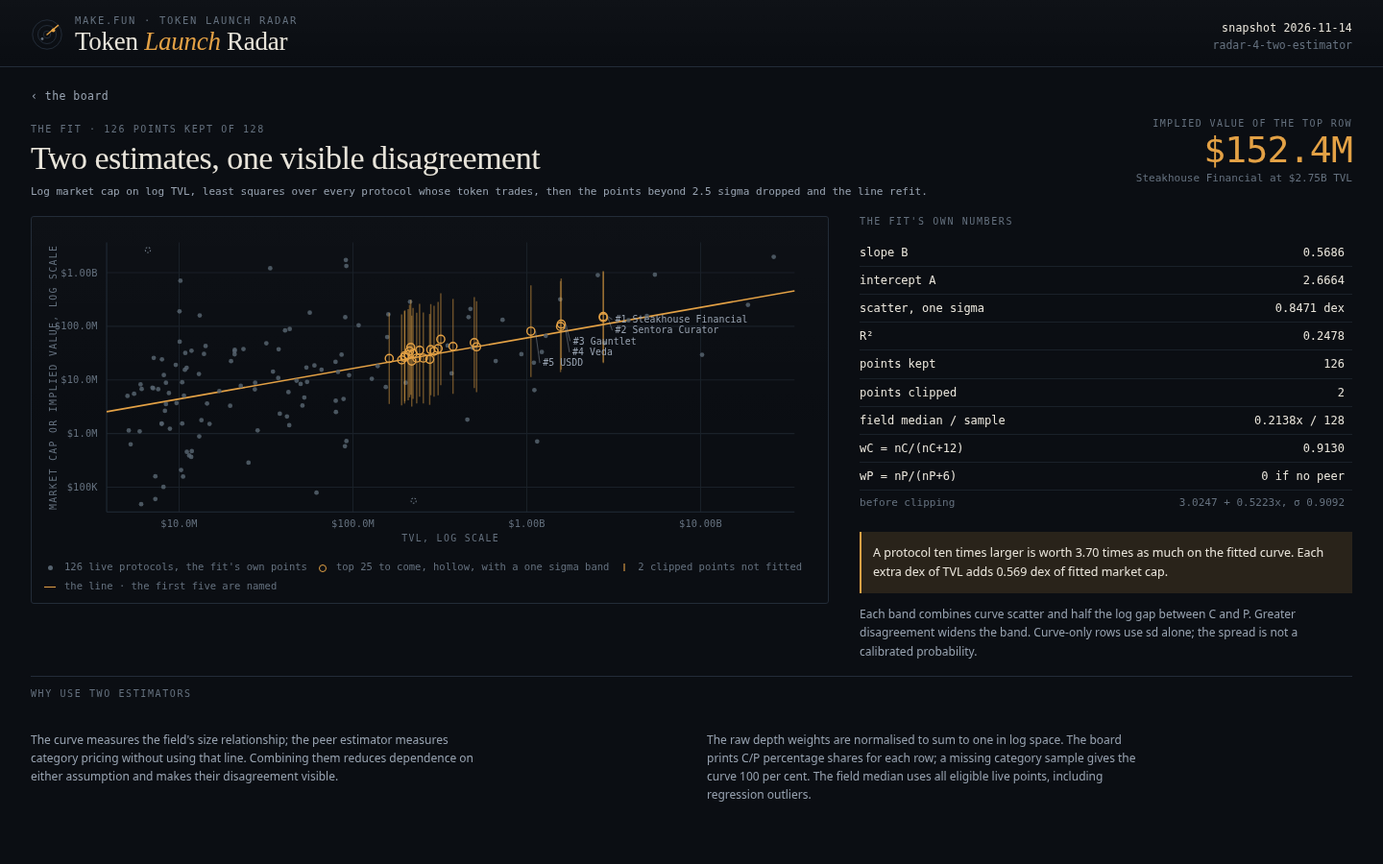
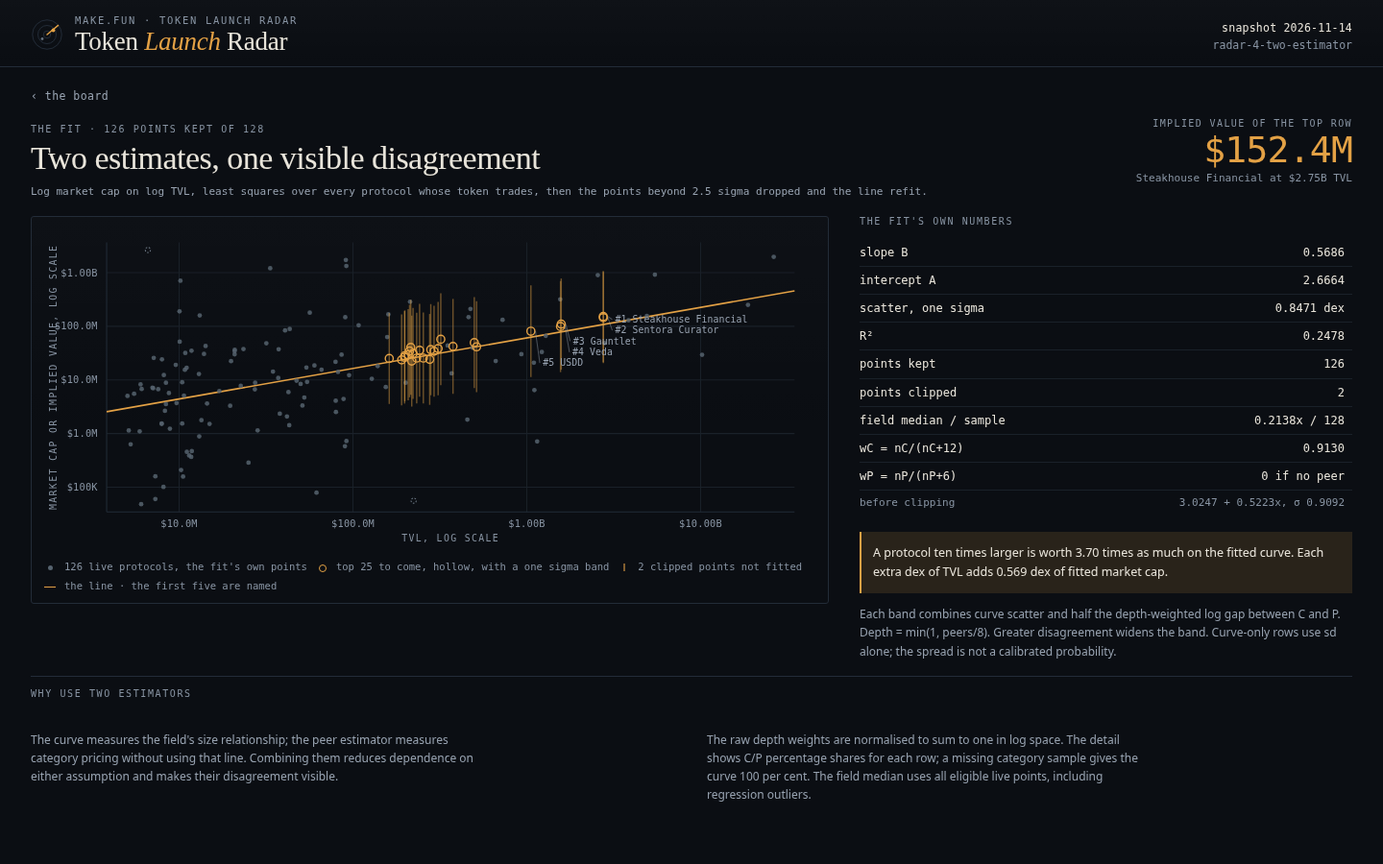
radar-5: the first screen carries the argument, and every band is sortable

Changed region(s): [[0.625, 0.6844, 0.9688, 0.7778], [0.5, 0.84, 0.8125, 0.9022], [0.0938, 0.6533, 0.125, 0.6844]]

diff --git a/dashboard/app.js b/dashboard/app.js
@@ -105,6 +105,7 @@
     growth: function (r) { return r.change_7d === null ? -9999 : r.change_7d; },
     age: function (r) { return r.age_days === null ? -1 : r.age_days; },
     terms: function (r) { return terms(r); },
+    band: function (r) { return Math.log10(r.band_high / Math.max(1, r.band_low)); },
     rank: function (r) { return r.rank; },
   };
 
@@ -156,8 +157,6 @@
 
   function rowHtml(row) {
     var chip = '<span class="chip' + (row.on_watchlist ? ' watch' : '') + '">' + esc(row.category || 'no category') + '</span>';
-    var chainCell = row.chains.length === 0 ? 'n/a'
-      : esc(row.chains[0]) + ' <span class="more">&middot; ' + row.chains.length + '</span>';
     return (
       '<tr data-slug="' + esc(row.slug) + '" tabindex="0">' +
       '<td class="rank">' + row.rank + '</td>' +
@@ -165,11 +164,9 @@
       (row.on_watchlist ? '' : '<span class="off">beyond watchlist</span>') + '</span></td>' +
       '<td class="num dim">' + esc(usd(row.tvl_usd)) + '</td>' +
       trendCell(row.change_7d) +
-      '<td class="num dim">' + esc(age(row.age_days)) + '</td>' +
-      '<td class="chaincell">' + chainCell + '</td>' +
-      '<td class="estimates"><span>curve ' + esc(usd(row.curve_value_usd)) + '</span><span>peer ' + (row.peer_value_usd === null ? 'n/a: curve only' : esc(usd(row.peer_value_usd))) + '</span><span>C/P ' + (100 * row.blend_weight_curve / (row.blend_weight_curve + row.blend_weight_peer)).toFixed(0) + '/' + (100 * row.blend_weight_peer / (row.blend_weight_curve + row.blend_weight_peer)).toFixed(0) + '%</span></td>' +
       valueCell(row) +
-      '<td class="chev">&#8250;</td>' +
+      '<td class="num band-width">' + SORTS.band(row).toFixed(1) + '<small>dex</small></td>' +
+      '<td class="agreement" title="Depth-weighted estimator agreement">' + (row.estimators_agree === null ? 'C' : row.estimators_agree ? '=' : '!') + '</td>' +
       '</tr>'
     );
   }
@@ -205,7 +202,6 @@
 
   function boardView() {
     var rows = visible();
-    var top = DATA.rows[0];
     var options = categories()
       .map(function (c) { return '<option value="' + esc(c) + '"' + (c === state.category ? ' selected' : '') + '>' + esc(c) + '</option>'; })
       .join('');
@@ -215,16 +211,8 @@
 
     var head = masthead(false) +
 
-      '<section class="figures">' +
-      '<div class="figure lead"><span class="label">highest conditional implied value</span>' +
-      '<span class="value"><em>' + esc(usd(top.implied_value_usd)) + '</em> &middot; ' + esc(top.name) + '</span></div>' +
-      '<div class="figure"><span class="label">the size curve</span>' +
-      '<span class="value">' + mult(pow10(FIT.b)) + ' <small>per 10x TVL</small></span></div>' +
-      '<div class="figure"><span class="label">fit scatter, one sigma</span>' +
-      '<span class="value">&plusmn;' + FIT.scatter.toFixed(2) + ' <small>dex, r&sup2; ' + FIT.r2.toFixed(2) + '</small></span></div>' +
-      '<div class="figure"><span class="label">protocols priced</span>' +
-      '<span class="value">' + DATA.board_size + ' <small>of ' + DATA.watchlist_size + ' on the watchlist</small></span></div>' +
-      '</section>' +
+      '<section class="method"><p>We price a possible token from a size curve and category peers, then adjust for chain reach, growth and tracking age.</p>' +
+      '<div class="fit-strip"><b>size curve B ' + FIT.b.toFixed(3) + '</b><span>scatter ' + FIT.scatter.toFixed(2) + ' dex</span><span>r2 ' + FIT.r2.toFixed(2) + '</span><span>' + FIT.n + ' of ' + FIT.first.n + ' live tokens kept</span><span>' + DATA.board_size + ' candidates / ' + DATA.watchlist_size + ' watchlist</span></div></section>' +
 
       '<div class="toolbar">' +
       '<label class="field">' + searchGlyph() +
@@ -233,7 +221,7 @@
       '<select id="chain" aria-label="chain"><option value="all">every chain</option>' + chainOptions + '</select>' +
       '<label class="toggle' + (state.watchOnly ? ' on' : '') + '"><input type="checkbox" id="watch"' + (state.watchOnly ? ' checked' : '') + '> watchlist only</label>' +
       '<select id="sort" aria-label="sort">' +
-      ['implied', 'tvl', 'growth', 'age', 'terms'].map(function (k) {
+      ['implied', 'tvl', 'growth', 'age', 'terms', 'band'].map(function (k) {
         return '<option value="' + k + '"' + (state.sort === k ? ' selected' : '') + '>sort: ' + k + '</option>';
       }).join('') +
       '</select>' +
@@ -241,18 +229,45 @@
       '<a class="fitlink" href="#/fit">the two estimators &#8250;</a>' +
       '</div>' +
 
-      '<div class="board">' + gridHtml(rows) + '</div>' +
+      '<div class="board-layout"><div class="board">' + gridHtml(rows) + '</div><aside class="board-aside">' + bandChart(rows) + claimsView() + '</aside></div>' +
       noteView();
 
     return head;
   }
 
+  function bandChart(rows) {
+    var top = rows.slice(0, 5);
+    var lo = Math.floor(Math.min.apply(null, top.map(function (r) { return Math.log10(Math.max(1, r.band_low)); })));
+    var hi = Math.ceil(Math.max.apply(null, top.map(function (r) { return Math.log10(r.band_high); })));
+    if (!top.length) return '<h2>No rows to compare</h2>';
+    function x(v) { return 30 + (Math.log10(Math.max(1, v)) - lo) / Math.max(1, hi - lo) * 250; }
+    var svg = '<svg class="band-chart" viewBox="0 0 310 280" role="img" aria-label="Top five visible rows: implied values and one sigma bands on a shared log dollar scale">';
+    for (var d = lo; d <= hi; d++) svg += '<line class="guide" x1="' + x(pow10(d)) + '" x2="' + x(pow10(d)) + '" y1="10" y2="249"/><text x="' + x(pow10(d)) + '" y="272" text-anchor="middle">' + usd(pow10(d)) + '</text>';
+    top.forEach(function (r, i) {
+      var y = 23 + i * 47;
+      svg += '<text class="band-name" x="12" y="' + y + '">#' + r.rank + ' ' + esc(r.name) + '</text><text x="294" y="' + y + '" text-anchor="end">' + usd(r.implied_value_usd) + '</text>';
+      svg += '<line class="interval" x1="' + x(r.band_low) + '" x2="' + x(r.band_high) + '" y1="' + (y+15) + '" y2="' + (y+15) + '"/>';
+      [r.band_low, r.band_high].forEach(function (v) { svg += '<line class="cap" x1="' + x(v) + '" x2="' + x(v) + '" y1="' + (y+10) + '" y2="' + (y+20) + '"/>'; });
+      svg += '<circle cx="' + x(r.implied_value_usd) + '" cy="' + (y+15) + '" r="3.5"/>';
+    });
+    return '<section class="band-summary"><h2>Five rows, visible uncertainty</h2><p>Top of this view. Dot: value. Line: one sigma.</p>' + svg + '</svg><p>Shared log dollar scale. Overlap limits rank confidence.</p><p>C/P marks: = agree; ! disagree; C curve only.</p></section>';
+  }
+
+  function claimsView() {
+    return '<section class="claims"><h2>What this board claims</h2><ul>' +
+      '<li>Prices a possible token from market TVL pricing.</li>' +
+      '<li>Snapshot only; no name exceptions or outside data.</li>' +
+      '<li>One sigma: market disagreement, not a wrong row.</li>' +
+      '<li>Watchlist floor: ' + DATA.early_size + '/' + DATA.board_size + ' rows extend early coverage.</li>' +
+      '<li>No launch prediction or investment advice.</li></ul></section>';
+  }
+
   function noteView() {
     return '<section class="note"><div><h2>two estimates, one conditional value</h2>' +
       '<p>C = 10^(a + b log10 TVL). P = TVL times a category median market-cap/TVL multiple. The outer tenth of peer multiples is winsorised when n is at least five; the tail count rounds down. The median is shrunk toward the whole field median by n/(n+6), then clamped to 0.02 to 8.</p>' +
-      '<p>wC = nC/(nC+12); wP = nP/(nP+6). Base = 10^((wC log10 C + wP log10 P)/(wC+wP)). No category comparable means curve only. Implied = round(base times chain times momentum times maturity).</p>' +
+      '<p>wC = nC/(nC+12); wP = nP/(nP+6). Base = 10^((wC log10 C + wP log10 P)/(wC+wP)). No category comparable means curve only. Depth = min(1, peers/8). Implied = round(base times chain times momentum times maturity).</p>' +
       '<p>Chain = 1 + 0.03 min(chains-1,4). Momentum = 1 + 0.30 clamp(change_7d,-40,60)/100; missing growth is zero. Maturity = 0.75 + 0.25 min(age_days,1095)/1095; a missing date uses 240 days.</p></div>' +
-      '<div><h2>uncertainty and scope</h2><p>Sigma = sqrt(sd squared + (0.5 log10(C/P)) squared). Curve-only rows use sd. The band is round(implied / 10^sigma) to round(implied times 10^sigma). It is a model spread, not a calibrated probability or a price target.</p>' +
+      '<div><h2>uncertainty and scope</h2><p>Sigma = sqrt(sd squared + (0.5 depth log10(C/P)) squared). Curve-only rows use sd. The band is round(implied / 10^sigma) to round(implied times 10^sigma). It is a model spread, not a calibrated probability or a price target.</p>' +
       '<p>The snapshot records no token for these candidates. Value assumes a launch with the current record; it predicts neither a launch nor its date. The watchlist is a floor; independent candidates beyond it also rank.</p>' +
       '<p>Farm actions are category-based research plans. Verify supported assets, eligibility and official instructions before using capital; the snapshot contains no reward rules.</p><a href="#/fit">Inspect the two estimators and the fit &#8250;</a></div></section>';
   }
@@ -377,14 +392,14 @@
       '<tr class="before"><td class="name">before clipping</td><td class="num">' + FIT.first.a.toFixed(4) + ' + ' + FIT.first.b.toFixed(4) + 'x, &sigma; ' + FIT.first.scatter.toFixed(4) + '</td></tr>' +
       '</tbody></table>' +
       '<p class="slopesay">A protocol ten times larger is worth ' + slope.toFixed(2) + ' times as much on the fitted curve. Each extra dex of TVL adds ' + FIT.b.toFixed(3) + ' dex of fitted market cap.</p>' +
-      '<p class="bandsay">Each band combines curve scatter and half the log gap between C and P. Greater disagreement widens the band. Curve-only rows use sd alone; the spread is not a calibrated probability.</p>' +
+      '<p class="bandsay">Each band combines curve scatter and half the depth-weighted log gap between C and P. Depth = min(1, peers/8). Greater disagreement widens the band. Curve-only rows use sd alone; the spread is not a calibrated probability.</p>' +
       '</section>' +
       '</div>' +
 
       '<section class="fitwhy">' +
       '<h3>why use two estimators</h3>' +
       '<p>The curve measures the field\'s size relationship; the peer estimator measures category pricing without using that line. Combining them reduces dependence on either assumption and makes their disagreement visible.</p>' +
-      '<p>The raw depth weights are normalised to sum to one in log space. The board prints C/P percentage shares for each row; a missing category sample gives the curve 100 per cent. The field median uses all eligible live points, including regression outliers.</p>' +
+      '<p>The raw depth weights are normalised to sum to one in log space. The detail shows C/P percentage shares for each row; a missing category sample gives the curve 100 per cent. The field median uses all eligible live points, including regression outliers.</p>' +
       '</section>' +
       '</div>';
   }
@@ -428,7 +443,7 @@
       '<div class="detail-head">' +
       '<div><span class="rank-stamp">rank ' + row.rank + ' of ' + DATA.board_size + (row.on_watchlist ? ' &middot; on the watchlist' : ' &middot; beyond watchlist') + '</span>' +
       '<h2>' + esc(row.name) + '</h2>' +
-      '<div class="sub">' + esc(row.category || 'no category') + ' &middot; ' + esc(row.chains.join(', ') || 'chain not recorded') +
+      '<div class="sub">' + esc(row.category || 'no category') + ' &middot; ' + '<span title="' + esc(row.chains.join(', ')) + '">' + esc(row.chains.slice(0, 3).join(', ') || 'chain not recorded') + (row.chains.length > 3 ? ' +' + (row.chains.length - 3) + ' more' : '') + '</span>' +
       ' &middot; tracking starts <b>' + esc(row.listed_at || 'not recorded') + '</b> &middot; <b>' + esc(age(row.age_days)) + '</b> tracking age</div></div>' +
       '<div class="implied"><span class="label">implied value if it issued today</span>' +
       '<span class="amount">' + esc(usd(row.implied_value_usd)) + '</span>' +
@@ -439,13 +454,13 @@
       '<u style="left:' + pos(row.implied_value_usd).toFixed(1) + '%"></u></span>' +
       '<span class="ends"><span>' + esc(exactUsd(row.band_low)) + '</span><span class="mid">' + esc(exactUsd(row.implied_value_usd)) + ' implied</span><span>' + esc(exactUsd(row.band_high)) + '</span></span></div>' +
 
-      '<div class="estimator-pair"><div><span class="label">C: size curve</span><b>' + esc(usd(row.curve_value_usd)) + '</b><span>depth weight ' + row.blend_weight_curve.toFixed(4) + '</span></div>' +
-      '<div><span class="label">P: peer multiple</span><b>' + esc(usd(row.peer_value_usd)) + '</b><span>' + row.sample.comparables + ' comparables; weight ' + row.blend_weight_peer.toFixed(4) + '; multiple ' + row.category_multiplier.toFixed(4) + 'x</span></div></div>' +
-      '<p class="verdict">' + (row.estimators_agree === null ? 'No category comparable: the curve alone sets the base.' : row.estimators_agree ? 'The two estimators agree within 0.5 dex.' : 'The two estimators disagree by more than 0.5 dex; their gap widens the band.') + '</p>' +
+      '<div class="estimator-pair"><div><span class="label">C: size curve</span><b>' + esc(usd(row.curve_value_usd)) + '</b><span>depth weight ' + row.blend_weight_curve.toFixed(4) + '; blend share ' + (100 * row.blend_weight_curve / (row.blend_weight_curve + row.blend_weight_peer)).toFixed(0) + '%</span></div>' +
+      '<div><span class="label">P: peer multiple</span><b>' + esc(usd(row.peer_value_usd)) + '</b><span>' + row.sample.comparables + ' comparables; weight ' + row.blend_weight_peer.toFixed(4) + '; multiple ' + row.category_multiplier.toFixed(4) + 'x; blend share ' + (100 * row.blend_weight_peer / (row.blend_weight_curve + row.blend_weight_peer)).toFixed(0) + '%</span></div></div>' +
+      '<p class="verdict">' + (row.estimators_agree === null ? 'No category comparable: the curve alone sets the base.' : row.estimators_agree ? 'The depth-weighted estimator gap is within ' + MODEL.agree_dex + ' dex.' : 'The depth-weighted estimator gap exceeds ' + MODEL.agree_dex + ' dex; it widens the band.') + '</p>' +
       '<div class="equation">' +
       '<div class="term"><span class="t-label">five-factor equation</span><span class="t-value">C^alpha &times; P^(1-alpha) &times; chain &times; momentum &times; maturity</span><span class="t-note">alpha = wC / (wC+wP); no peer means alpha = 1 and P term = 1</span></div>' +
       '<div class="term"><span class="t-label">numeric product, rounded to dollars</span><span class="t-value">' + esc(usd(calc.base)) + ' &times; ' + row.chain_multiplier.toFixed(2) + ' &times; ' + row.growth_multiplier.toFixed(5) + ' &times; ' + row.maturity_multiplier.toFixed(5) + ' = ' + esc(usd(row.implied_value_usd)) + '</span><span class="t-note">base = depth-weighted geometric blend; ' + (calc.value === row.implied_value_usd ? 'matches board.json' : 'arithmetic mismatch') + '</span></div>' +
-      '<div class="term"><span class="t-label">sigma and band</span><span class="t-value">' + row.sigma_dex.toFixed(4) + ' dex; ' + esc(usd(row.band_low)) + ' to ' + esc(usd(row.band_high)) + '</span><span class="t-note">sigma = sqrt(sd^2 + (0.5 log10(C/P))^2); curve only: sd</span></div></div>' +
+      '<div class="term"><span class="t-label">sigma and band</span><span class="t-value">' + row.sigma_dex.toFixed(4) + ' dex; ' + esc(usd(row.band_low)) + ' to ' + esc(usd(row.band_high)) + '</span><span class="t-note">depth = min(1, peers/8); sigma = sqrt(sd^2 + (0.5 depth log10(C/P))^2); curve only: sd</span></div></div>' +
 
       '<div class="detail-grid">' +
       '<section class="panel"><h3>live protocols in this category, and where they sit</h3>' +
@@ -454,7 +469,7 @@
       '</tbody></table>' +
       (callout.length ? '<p class="callout">' + callout.join(' ') + '</p>' : '') +
       '</section>' +
-      '<section class="panel"><h3>how to farm it before the token</h3><ol class="steps">' + steps + '</ol></section>' +
+      '<section class="panel"><h3>how to farm it before the token</h3><p class="farm-budget">To farm this for 90 days: about ' + exactUsd(row.farm_capital_usd) + ' of capital and ' + exactUsd(row.farm_gas_90_day_usd) + ' of gas.</p><p class="budget-note">Capital stays at risk. Gas includes 13 weekly actions and an exit reserve. Total budget: ' + exactUsd(row['90_day_cost_usd']) + '.</p><ol class="steps">' + steps + '</ol></section>' +
       '</div>' +
       '<p class="footlink"><a href="#/fit">the size curve this row was priced on &#8250;</a></p>' +
       '</div>';
@@ -521,17 +536,16 @@
   function gridHtml(rows) {
     return (
       '<table class="grid"><colgroup>' +
-      '<col style="width:52px"><col style="width:280px"><col style="width:100px"><col style="width:122px">' +
-      '<col style="width:86px"><col style="width:140px"><col style="width:190px"><col style="width:190px"><col style="width:22px">' +
+      '<col style="width:5%"><col style="width:29%"><col style="width:11%"><col style="width:13%">' +
+      '<col style="width:27%"><col style="width:10%"><col style="width:5%">' +
       '</colgroup><thead><tr>' +
-      headerCell('rank', 'rank', 'rank') + headerCell('implied', 'protocol') + headerCell('tvl', 'tvl') +
-      headerCell('growth', 'seven days') + headerCell('age', 'age') + '<th scope="col">chains</th>' +
-      '<th scope="col">curve / peer / share</th>' + headerCell('implied', 'implied value, band') + '<th scope="col"></th>' +
+      headerCell('rank', 'rank', 'rank') + '<th scope="col">protocol / category</th>' + headerCell('tvl', 'TVL') +
+      headerCell('growth', 'seven days') + headerCell('implied', 'implied value / band') + headerCell('band', 'band') + '<th scope="col">C/P</th>' +
       '</tr></thead><tbody>' +
       (rows.length === 0
-        ? '<tr><td colspan="9" class="empty">No protocol matches those filters. Clear the search or pick another category.</td></tr>'
+        ? '<tr><td colspan="7" class="empty">No protocol matches those filters. Clear the search or pick another category.</td></tr>'
         : rows.map(rowHtml).join('')) +
-      '</tbody></table><p class="agreement-legend"><b class="disagree">!</b> Estimators differ by more than 0.5 dex. C/P shows normalised blend shares. No peer means curve only. Bands include estimator disagreement.</p>'
+      '</tbody></table><p class="agreement-legend"><b class="disagree">!</b> disagree &nbsp; = agree &nbsp; C curve only. Depth-weighted gap threshold: ' + MODEL.agree_dex + ' dex. Band column: full width in dex.</p>'
     );
   }
 
@@ -571,6 +585,9 @@
     if (!board) return;
     var rows = visible();
     board.innerHTML = gridHtml(rows);
+    document.querySelector('.board-aside').innerHTML = bandChart(rows) + claimsView();
+    var sort = document.getElementById('sort');
+    if (sort) sort.value = state.sort;
     var count = document.querySelector('.count');
     if (count) count.innerHTML = '<b>' + rows.length + '</b> rows shown';
     var toggle = document.querySelector('.toggle');

diff --git a/lib/model.ts b/lib/model.ts
@@ -147,6 +147,9 @@ export interface FarmStep {
   text: string;
   cost: string;
   time: string;
+  capital_usd?: number;
+  gas_usd?: number;
+  repeat_days?: number;
 }
 
 /** One row of board.json: the ranked board's row, with the arithmetic that priced it. */
@@ -192,6 +195,9 @@ export interface BoardRow {
   };
   sample: RowEvidence;
   farm_steps: string[];
+  "90_day_cost_usd": number;
+  farm_capital_usd: number;
+  farm_gas_90_day_usd: number;
 }
 
 /** The dashboard's compact view of one row: board.json's numbers, without the prose. */
@@ -226,6 +232,9 @@ export interface RadarRow {
   size_value: number;
   sample: RowEvidence;
   farm_steps: string[];
+  "90_day_cost_usd": number;
+  farm_capital_usd: number;
+  farm_gas_90_day_usd: number;
 }
 
 /** A live-token protocol: it already trades, so the board shows the market's own figure. */
@@ -502,7 +511,9 @@ export function buildBoard(snapshot: Snapshot, model: ModelConstants = MODEL): B
   const scored = [...chosen.values()]
     .map((p) => ({ p, ...impliedValue(p, snapshot.as_of, fit, factors, model) }));
   scored.sort((a, b) => b.implied - a.implied || b.p.tvl_usd - a.p.tvl_usd || (a.p.slug < b.p.slug ? -1 : 1));
-  return scored.map((s, i) => ({
+  return scored.map((s, i) => {
+    const steps = farmSteps(s.p, s.age);
+    return ({
     rank: i + 1,
     slug: s.p.slug,
     name: s.p.name,
@@ -544,8 +555,10 @@ export function buildBoard(snapshot: Snapshot, model: ModelConstants = MODEL): B
       kept_points: fit.n,
       clipped_points: fit.clipped,
     },
-    farm_steps: farmSteps(s.p, s.age).map(stepText),
-  }));
+    farm_steps: steps.map(stepText),
+    ...farmBudget(steps),
+    });
+  });
 }
 
 /** A step as one string: its action, its cost, its time, inside the gate's 20..600 characters. */
@@ -612,26 +625,34 @@ export function farmSteps(p: SnapshotProtocol, age: number | null): FarmStep[] {
     {
       text: 'Open a fresh wallet for this position alone, write its seed phrase on paper and keep it off every device you browse with.',
       cost: 'under $3 of gas for the first transaction',
-      time: '5 minutes',
+      time: '5 minutes', gas_usd: 3,
     },
-    { text: action, cost: `$${capital} of capital and about $${gas} of gas`, time: '15 minutes to set up' },
+    { text: action, cost: `$${capital} of capital and about $${gas} of gas`, time: '15 minutes to set up', capital_usd: capital, gas_usd: gas },
     {
       text: `Repeat one qualifying action at ${p.name} every week, a deposit, a borrow, a swap or a vote, and log actual activity; verify whether official eligibility rules count it.`,
       cost: 'about $2 of gas a week',
-      time: '10 minutes a week',
+      time: '10 minutes a week', gas_usd: 2, repeat_days: 7,
     },
     {
       text: `Hold the position at least ${hold} days, as a planning window on ${chain}; official reward timing is not recorded.`,
       cost: `the $${capital} stays in the position`,
       time: `${hold} days`,
     },
-    { text: spread, cost: `about $${gas + 2} of gas for the extra routes`, time: '30 minutes per extra chain' },
+    { text: spread, cost: `about $${extra > 0 ? gas + 2 : 0} of gas for the extra routes`, time: extra > 0 ? '30 minutes per extra chain' : '5 minutes to review', gas_usd: extra > 0 ? gas + 2 : 0 },
     {
       text: 'Write the wallet address, the dates and every transaction into a farm log, then check the protocol\'s own site for a points page before you withdraw, and claim only from the address it publishes.',
-      cost: 'nothing to log, plus any verified chain transaction fee',
+      cost: `nothing to log, reserve about $${gas} of gas to exit`,
+      gas_usd: gas,
       time: '15 minutes',
     },
   ];
+}
+
+/** Count capital once; reserve each one-off fee and thirteen weekly actions over ninety days. */
+export function farmBudget(steps: FarmStep[]) {
+  const capital = Math.max(0, ...steps.map(s => s.capital_usd ?? 0));
+  const gas = steps.reduce((sum, s) => sum + (s.gas_usd ?? 0) * (s.repeat_days ? Math.ceil(90 / s.repeat_days) : 1), 0);
+  return { "90_day_cost_usd": capital + gas, farm_capital_usd: capital, farm_gas_90_day_usd: gas };
 }
 
 /** The live-token protocols, by market cap, for the comparables view. */
@@ -688,6 +709,9 @@ export function radarRow(row: BoardRow): RadarRow {
     size_value: row.model.size_value,
     sample: row.sample,
     farm_steps: row.farm_steps,
+    "90_day_cost_usd": row["90_day_cost_usd"],
+    farm_capital_usd: row.farm_capital_usd,
+    farm_gas_90_day_usd: row.farm_gas_90_day_usd,
   };
 }
 
@@ -942,6 +966,18 @@ export function selfTest(): string[] {
   const expected = Math.pow(10, (both.wC * Math.log10(both.sizeValue) + both.wP * Math.log10(both.peer!)) / (both.wC + both.wP));
   if (!near(both.base, expected) || both.bandLow > both.implied || both.bandHigh < both.implied || both.sigma < curve.fit.scatter) throw new Error('selfTest: blend or disagreement band fails');
   passed.push('two-estimator blend and disagreement band follow their equations');
+  // The ninety-day budget counts a reused position once and reserves thirteen weekly fees.
+  const planProtocol = { ...boardFixture.protocols[12]!, tvl_usd: 40_000_000, chains: ['Base'] };
+  const singlePlan = farmSteps(planProtocol, 400);
+  const singleBudget = farmBudget(singlePlan);
+  if (singlePlan.length !== 6 || singleBudget.farm_capital_usd !== 50 || singleBudget.farm_gas_90_day_usd !== 37 || singleBudget['90_day_cost_usd'] !== 87) {
+    throw new Error('selfTest: single-chain farm budget must reserve $50 capital plus $37 gas for ninety days');
+  }
+  const multiBudget = farmBudget(farmSteps({ ...planProtocol, tvl_usd: 2_000_000_000, chains: ['Base', 'Ethereum', 'Arbitrum'] }, 400));
+  if (multiBudget.farm_capital_usd !== 150 || multiBudget.farm_gas_90_day_usd !== 55 || multiBudget['90_day_cost_usd'] !== 205) {
+    throw new Error('selfTest: multi-chain farm budget must reserve $150 capital plus $55 gas for ninety days');
+  }
+  passed.push('ninety-day farm budgets count shared capital once and all recurring and one-off gas');
   return passed;
 }
 

diff --git a/dashboard/app.css b/dashboard/app.css
@@ -758,3 +758,56 @@ footer.colophon {
 @media (max-width: 900px) { .detail-head { flex-wrap: wrap; } .detail-head > div:first-child { max-width: 100%; } }
 
 .agreement-legend { position: fixed; bottom: 0; left: 32px; right: 32px; z-index: 5; margin: 0; padding: 8px 0; background: var(--room); border-top: 1px solid var(--hairline); }
+
+/* Radar-5 puts the evidence beside the ranking. */
+:root { --ink-faint: #8793a2; }
+.method { padding: 10px 32px 12px; border-bottom: 1px solid var(--hairline); }
+.method p { margin: 0 0 8px; color: var(--ink); font-size: 14px; }
+.fit-strip { display: flex; gap: 24px; color: var(--ink-dim); font: 11px/1.4 var(--font-num); }
+.fit-strip b { color: var(--signal); font-weight: 500; }
+.board-layout { display: grid; grid-template-columns: minmax(0, 1fr) 340px; gap: 24px; padding: 0 32px; align-items: start; }
+.board { padding: 0 0 32px; min-width: 0; }
+.grid thead th { top: 57px; letter-spacing: .06em; padding: 13px 6px; }
+.grid td { height: 58px; padding: 0 6px; }
+.grid td.rank { padding-right: 10px; }
+.grid .who .name { font-size: 14px; }
+.who .meta { gap: 5px; }
+.who .meta .off { font-size: 8px; }
+.chip { border: 0; padding: 0; font-size: 10px; }
+.grid td.num { font-size: 12px; }
+.grid td.value .whisk { margin: 4px 0; }
+.grid tbody tr:nth-child(-n+3) { background: rgba(227,161,69,.025); }
+.grid td.agreement { text-align: center; color: var(--signal); font: 16px var(--font-num); }
+.band-width small { display: block; font-size: 9px; color: var(--ink-faint); margin-top: 5px; }
+.board-aside { padding: 16px 0; position: sticky; top: 58px; }
+.board-aside h2 { font: 500 11px/1.4 var(--font-num); text-transform: uppercase; letter-spacing: .09em; color: var(--signal); margin: 0 0 8px; }
+.board-aside p { font: 11px/1.5 var(--font-body); color: var(--ink-dim); margin: 5px 0; }
+.band-chart { width: 100%; display: block; margin-top: 10px; }
+.band-chart text { font: 9px var(--font-num); fill: var(--ink-dim); }
+.band-chart .band-name { fill: var(--ink); font-size: 10px; }
+.band-chart .guide { stroke: var(--hairline-soft); }
+.band-chart .interval { stroke: var(--signal); stroke-width: 4; stroke-opacity: .4; }
+.band-chart .cap { stroke: var(--signal); }
+.band-chart circle { fill: var(--signal); }
+.claims { margin-top: 24px; border-top: 1px solid var(--hairline); padding-top: 18px; }
+.claims ul { margin: 0; padding-left: 14px; color: var(--ink-dim); font: 12px/1.55 var(--font-body); }
+.claims li { margin: 0 0 12px; padding-left: 2px; }
+.claims li::marker { color: var(--signal); }
+.agreement-legend { position: static; padding: 10px 0; font-size: 10px; }
+.farm-budget { color: var(--signal); font: 13px/1.5 var(--font-num); margin: 0 0 4px; }
+.budget-note { color: var(--ink-dim); font-size: 10px; margin: 0 0 14px; }
+.detail-grid { grid-template-columns: .9fr 1.1fr; }
+@media (max-width: 1100px) {
+  .board-layout { grid-template-columns: minmax(0, 1fr); padding: 0 16px; }
+  .board-aside { position: static; display: grid; grid-template-columns: 1fr 1fr; gap: 24px; }
+  .claims { margin-top: 0; }
+  .fit-strip { gap: 12px; flex-wrap: wrap; }
+  .toolbar { flex-wrap: wrap; position: static; }
+  .grid thead th { position: static; }
+}
+@media (max-width: 900px) {
+  .grid td.trend, .grid thead th:nth-child(4) { display: table-cell; }
+  .board { overflow-x: auto; }
+  .grid { min-width: 850px; }
+  .board-aside, .detail-grid { grid-template-columns: 1fr; }
+}

diff --git a/README.md b/README.md
@@ -16,11 +16,11 @@ A token launch radar: it prices every protocol in a sealed DefiLlama snapshot th
 - Implied value is round(base times chain times momentum times maturity), with a minimum of one dollar.
 - Chain is 1 + 0.03 min(chains-1,4). Momentum is 1 + 0.30 clamp(change_7d,-40,60)/100.
 - Maturity is 0.75 + 0.25 min(age_days,1095)/1095. A missing date uses 240 days; missing growth uses zero.
-- Sigma is sqrt(sd squared + (0.5 log10(C/P)) squared). A missing peer uses sd alone. The band divides and multiplies implied value by 10^sigma.
+- Sigma is sqrt(sd squared + (0.5 depth log10(C/P)) squared), where depth = min(1, comparables/8). A missing peer uses sd alone. The band divides and multiplies implied value by 10^sigma.
 
 Winsorisation replaces each outer tenth with its boundary value when n is at least five. The tail count rounds down. Winsorisation and trimming leave this median unchanged. Values retain full precision until the final dollar rounding.
 
-The page shows curve, peer, normalised shares, bands and disagreement beyond 0.5 dex. The fit view plots all kept live observations and the top 25 candidates. The detail view shows both estimates and six farm steps.
+The detail shows curve, peer and normalised shares. Agreement uses a depth-weighted log gap at or below 0.35 dex. The board shows bands and sorts their full width in dex. The fit view plots all kept live observations and the top 25 candidates. The detail view shows both estimates, six farm steps and a ninety-day budget. Capital counts once; gas includes thirteen weekly actions and the plan's one-off fees.
 
 The watchlist is the floor. Every other independent pre-token candidate also joins the board. Names receive no special pricing. Tracking age is a maturity proxy. The snapshot does not establish launch timing, reward eligibility or supported farm assets.
 
